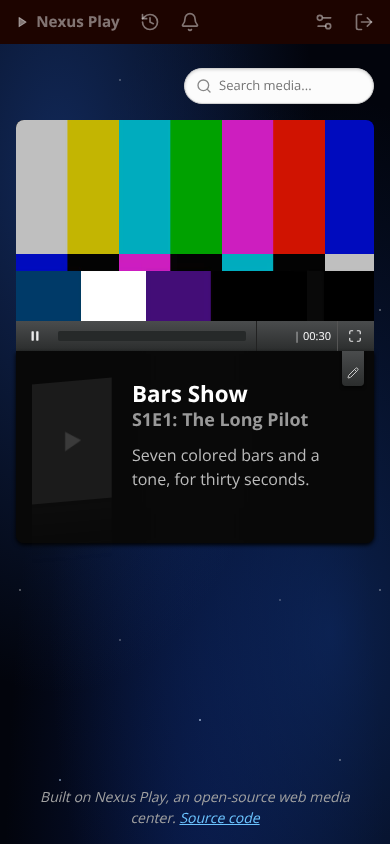
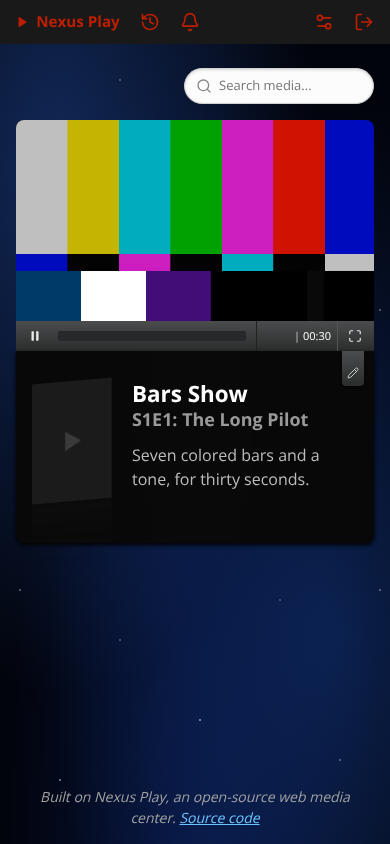
Player: the original's top bar colors during playback
While a video plays, the top bar was a reddish near-black with white
links at 45% opacity, which made the icons look see-through. It is now
the original's: solid dark gray (rgb 25, 25, 25) with solid red links and
icons (rgb 190, 30, 0), brighter red on hover.

Test: the phone playback test checks those exact colors (it reported the
old ones).

Changed region(s): [[0.0, 0.0, 1.0, 0.0616]]

diff --git a/internal/web/static/css/app.css b/internal/web/static/css/app.css
@@ -107,8 +107,11 @@ button { font: inherit; }
   z-index: 10;
   transition: background-color .4s, opacity .4s;
 }
-.top-bar.playing { background: #1d0400; }
-.top-bar.playing .top-link, .top-bar.playing .brand, .top-bar.playing .top-text { color: rgba(255, 255, 255, .45); }
+/* While a video plays the bar turns dark gray with red links, as in the
+   original, so it does not draw the eye from the picture. */
+.top-bar.playing { background: rgb(25, 25, 25); }
+.top-bar.playing .top-link, .top-bar.playing .brand, .top-bar.playing .top-text { color: rgb(190, 30, 0); }
+.top-bar.playing .top-link:hover, .top-bar.playing .brand:hover { color: rgb(231, 55, 0); }
 .top-bar-inner {
   max-width: 960px;
   margin: 0 auto;

diff --git a/integration/playback_test.go b/integration/playback_test.go
@@ -116,12 +116,19 @@ func TestPlaybackScreens(t *testing.T) {
 		playUntil(tb, 2)
 		assertClearWhilePlaying(t, tb)
 		assertStillConverting(t, tb)
-		// While playing, the top bar is dimmed but solid: the page must not
-		// show through it when scrolled.
-		var bg string
-		tb.eval(`getComputedStyle(document.getElementById('top-bar')).backgroundColor`, &bg)
-		if !strings.HasPrefix(bg, "rgb(") {
-			t.Errorf("top bar while playing = %s, want a solid color", bg)
+		// While playing, the top bar is the original's solid dark gray with
+		// solid red links and icons (nothing see-through).
+		var bar struct{ Bg, Link, Icon string }
+		tb.eval(`(() => {
+			const st = e => getComputedStyle(e);
+			const icon = document.querySelector('#top-bar .label-short .icon');
+			return {bg: st(document.getElementById('top-bar')).backgroundColor,
+				link: st(document.querySelector('#top-bar .brand')).color,
+				icon: st(icon).color + ' ' + st(icon).opacity};
+		})()`, &bar)
+		if bar.Bg != "rgb(25, 25, 25)" || bar.Link != "rgb(190, 30, 0)" || bar.Icon != "rgb(190, 30, 0) 1" {
+			t.Errorf("top bar while playing: background %s, links %s, icons %s; want rgb(25, 25, 25) with rgb(190, 30, 0)",
+				bar.Bg, bar.Link, bar.Icon)
 		}
 		if got := tb.text("#ctl-duration"); got != "00:30" {
 			t.Errorf("length shown while converting = %s, want the whole 00:30", got)
